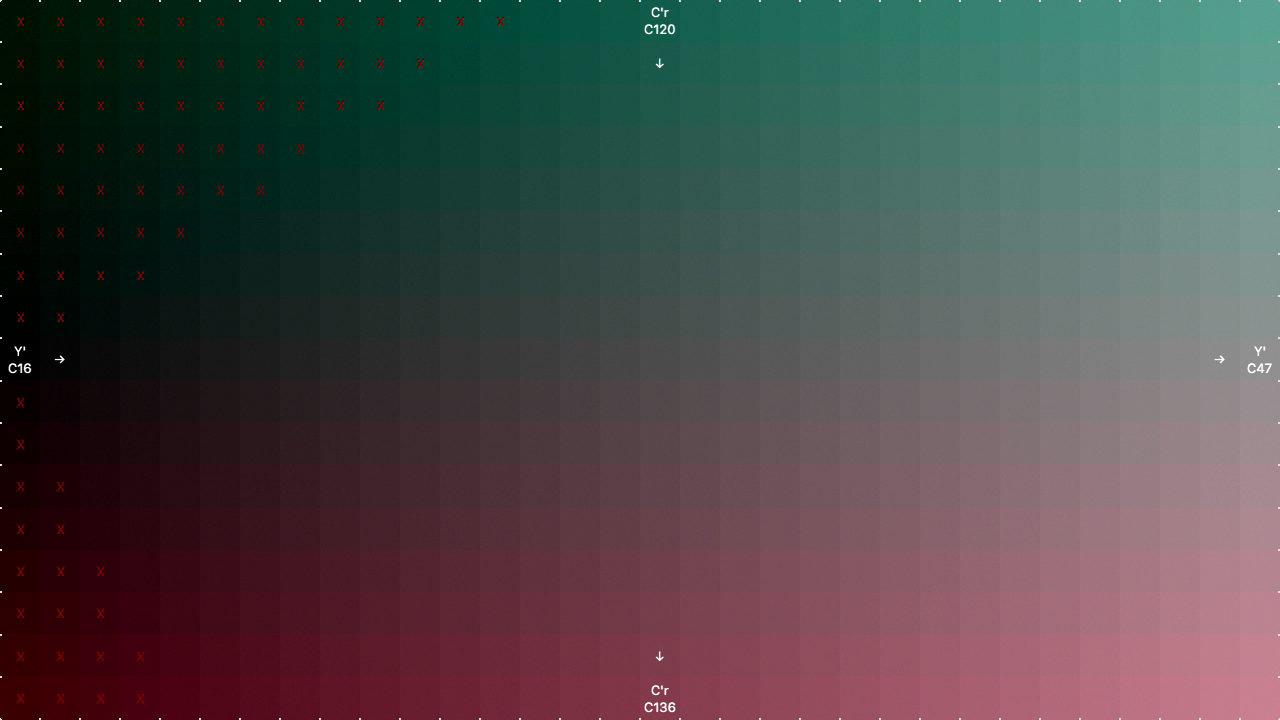
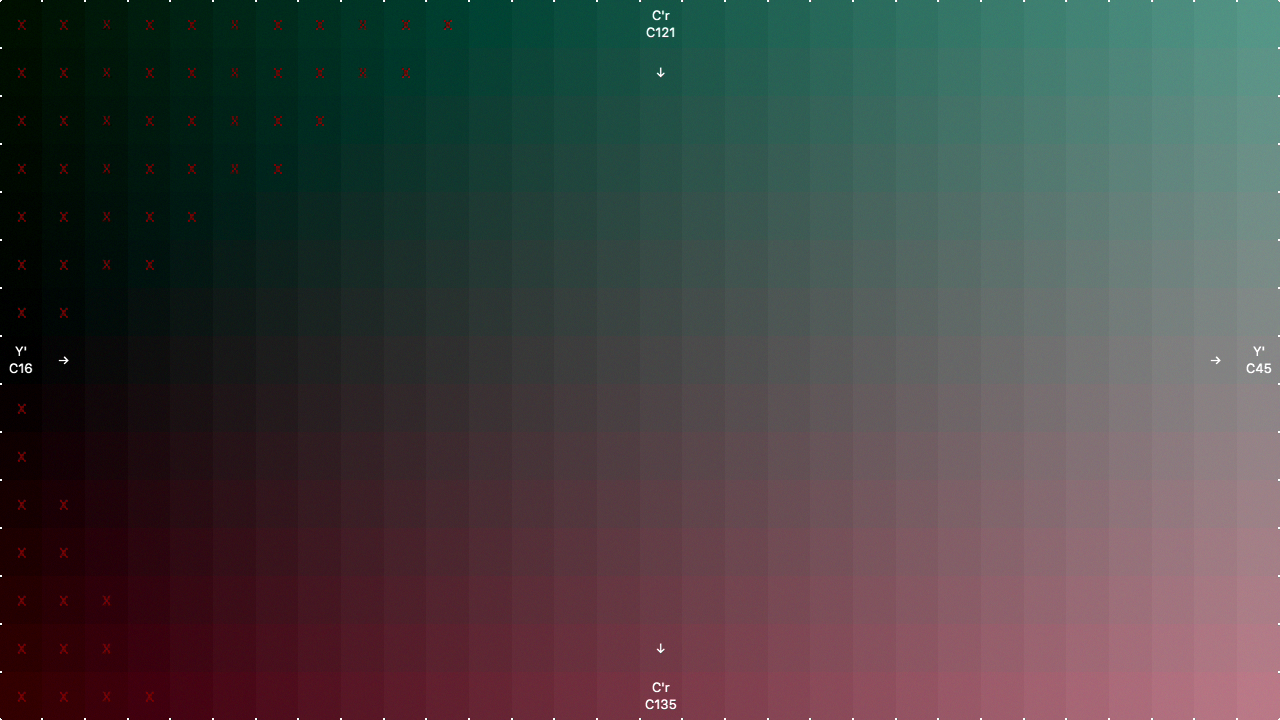
Release 0.4

diff --git a/pages/vtest/vtest_Calibrate.md b/pages/vtest/vtest_Calibrate.md
@@ -1,0 +1,43 @@
+---
+title: Calibration patterns
+keywords: calibration, grayscale, saturation
+tags: [getting_started]
+sidebar: vtest_sidebar
+permalink: vtest_Calibrate.html
+folder: vtest
+---
+
+We have plenty of patterns which will help you to calibrate your TV set:
+
+  * Full screen fills and 5%, 10%, 20%, 50% window calibration patches
+  * Grayscale patterns in 5% steps
+    * additional 'Whiter than White' patterns
+    * additional precision near-black patterns (1% steps)
+  * Miscellaneous 10 step Saturation Sweep patterns (CalMAN compatible)
+
+All those patterns have small intro displayed first 5 seconds at the top and bottom edges of the screen.
+There you can visually identify the pattern and find out useful information you might want to know abotu the pattern.
+On the top right site there is usually information about the set this pattern belong to.
+Top center display the sequence number and/or the name of the pattern within the set.
+Bottom right is for the resolution.
+
+Bottom center is where things get more interesting.
+There you can find precise YUV values that are coded into the pattern (as we are coding 4:2:0 there are no RGB values in files).
+YUV in this case is not a specific color space, but we are using it as a generalization for color-difference kind of spaces such as Y'C'bC'r and others (we just wanted a unique letter per component).
+As those color space coding will not generally decode to integer values of R, G and B we are displaying also RGB values with higher precision (those RGB values shouldn't be rounded by a perfect display system, so the YUV codes solely define of what you or the meter should see on the display).
+
+And finally on the left top and bottom parts you will find color and light levels.
+At the top it is displayed according to OETF (Opto-electronic transfer characteristics before non-linear pre-correction).
+This means 'camera' light 'as captured'.
+Rec. BT.709 and Rec. BT.2020 transfer functions are those 'camera' or encoding transfer functions.
+But it is not supposed for the display to use the direct inverse of these functions.
+Instead Rec. BT.1888 EOTF (electro-optical transfer function) is recommended for the display.
+So we display also how it should be on the display at the bottom. For encodes that are using display EOTF instead as a transfer function (such as HDR10 / SMPTE ST.2084 PQ) only value at bottom of the screen is displayed.
+
+
+## The reference
+
+##### ColorChecker "C2 - moderate red" 10% window patch example
+![Calibrate](images/vtest/Calibrate.png)
+
+{% include links.html %}

diff --git a/pages/vtest/vtest_Quants2D.md b/pages/vtest/vtest_Quants2D.md
@@ -8,9 +8,9 @@ folder: vtest
 ---
 
 This test pattern displays two dimensional quantization grid.
-On the horizontal axis there is luma (Y' channel) with 32 evenly spaced
+On the horizontal axis there is luma (Y' channel) with 30 evenly spaced
 steps of 1 LSB (least significant bit).
-On the vertical axis there is chroma (C'b or C'r channel) whit 17 evenly
+On the vertical axis there is chroma (C'b or C'r channel) whit 15 evenly
 spaced steps of the same 1 LSB per step, other chroma channel is fixed
 at its corresponding achromatic value.
 There are markings on edges of the screen that show where the steps are
@@ -44,7 +44,7 @@ structures larger than one cell is a signal of visible non-linearities
 in a playback chain.
 
 ##### 8 bit YUV to 10 bit RGB
-![10bit](images/vtest/Quants.png)
+![10bit](images/vtest/Quants8to10.png)
 
 The above is the example of rendering of the pattern to
 higher-resolution screen with truncation at the last step.
@@ -80,7 +80,7 @@ Le't now review how it may look if media player of TV doesn't do
 perfect math in the video chain.
 
 ##### 8 bit YUV to 8 bit RGB truncated (satisfying)
-![8bit](images/vtest/Quants8bit.png)
+![8bit](images/vtest/Quants8round.png)
 
 In the above example we have just rendered it to RGB and rounded it
 to 8 bit without dither.
@@ -102,13 +102,13 @@ So, let's see what happens when even more resolution is lost due to
 (improper) computations on the example of further bitdepth reduction...
 
 ##### 8 bit YUV to 7 bit RGB truncated (bad):
-![7bit](images/vtest/Quants7bit.png)
+![7bit](images/vtest/Quants7round.png)
 
 ##### 8 bit YUV to 6 bit RGB truncated (worse):
-![6bit](images/vtest/Quants6bit.png)
+![6bit](images/vtest/Quants6round.png)
 
 ##### 8 bit YUV to 5 bit RGB truncated (terrible):
-![5bit](images/vtest/Quants5bit.png)
+![5bit](images/vtest/Quants5round.png)
 
 So, you see here is already cells blending one into another into single
 color groups.

diff --git a/_posts/2018-04-16-release-0.4.md b/_posts/2018-04-16-release-0.4.md
@@ -1,14 +1,19 @@
 ---
-title: "Welcome to the testing-video project!"
-keywords: homepage
-tags: [getting_started]
-sidebar: vtest_sidebar
-permalink: index.html
+title:  "Release 0.4"
+published: true
+permalink: release-0.4.html
+summary: "Release 0.4"
+tags: [news]
 ---
 
-You can download latest set of patterns from [releases](https://github.com/testing-av/testing-video/releases) page.
+## Release 0.4
 
-## Features
+We are happy to announce a new release first time at this site!
+
+During last weeks a lot happened, number of test files generated multiplied several times, and while this is in large part different variants of calibration patches this is still a big step for the project.
+We support now pretty much every common format in widespread use today and ready to extend for new ones.
+
+#### Features
 
 ##### Modern picture formats
 
@@ -39,11 +44,5 @@ You can download latest set of patterns from [releases](https://github.com/testi
   * HDR10 10% window calibration patterns for LG OLED 2016 and 2017
 
 All patterns are automatically validated after encoding by decoding them and comparing with reference.
-
-## Expected in following release(s)
-
-  * ICtCp test patterns
-  * Injecting ST.2094-10 metadata allowing to test Dolby Vision systems
-  * Suggest your wishes via [feature request](https://github.com/testing-av/testing-video/issues) or better contribute to our GitHub project via pull requests.
 
 {% include links.html %}
